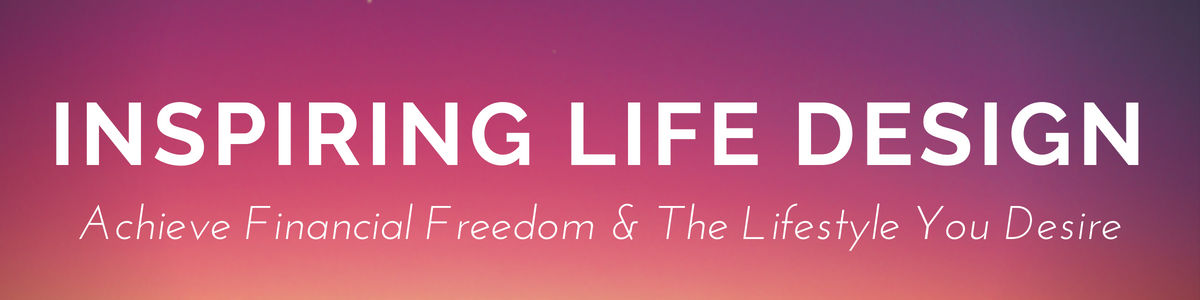
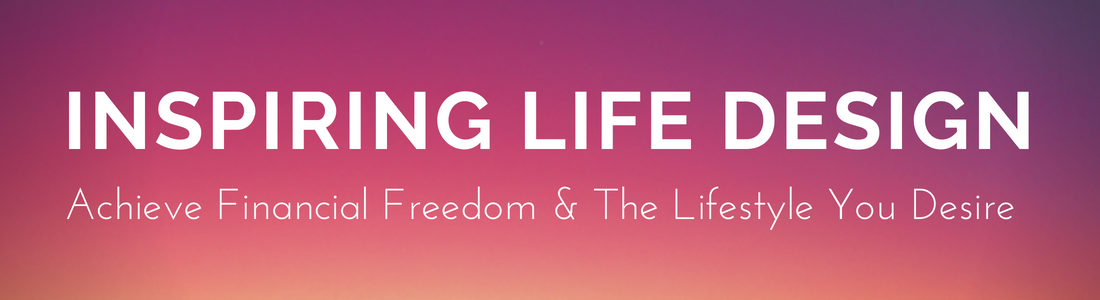
Resizing email header

diff --git a/i/emails/logo.md b/i/emails/logo.md
@@ -1,5 +1,7 @@
 ---
 layout: default
+sitemap:
+  exclude: true
 ---
 
 ![Logo](/i/emails/logo-for-email.png)
@@ -23,3 +25,4 @@ layout: default
 ![Logo](/i/emails/star-purple.png)
 
 ![Logo](/i/emails/email-header.png)
+
